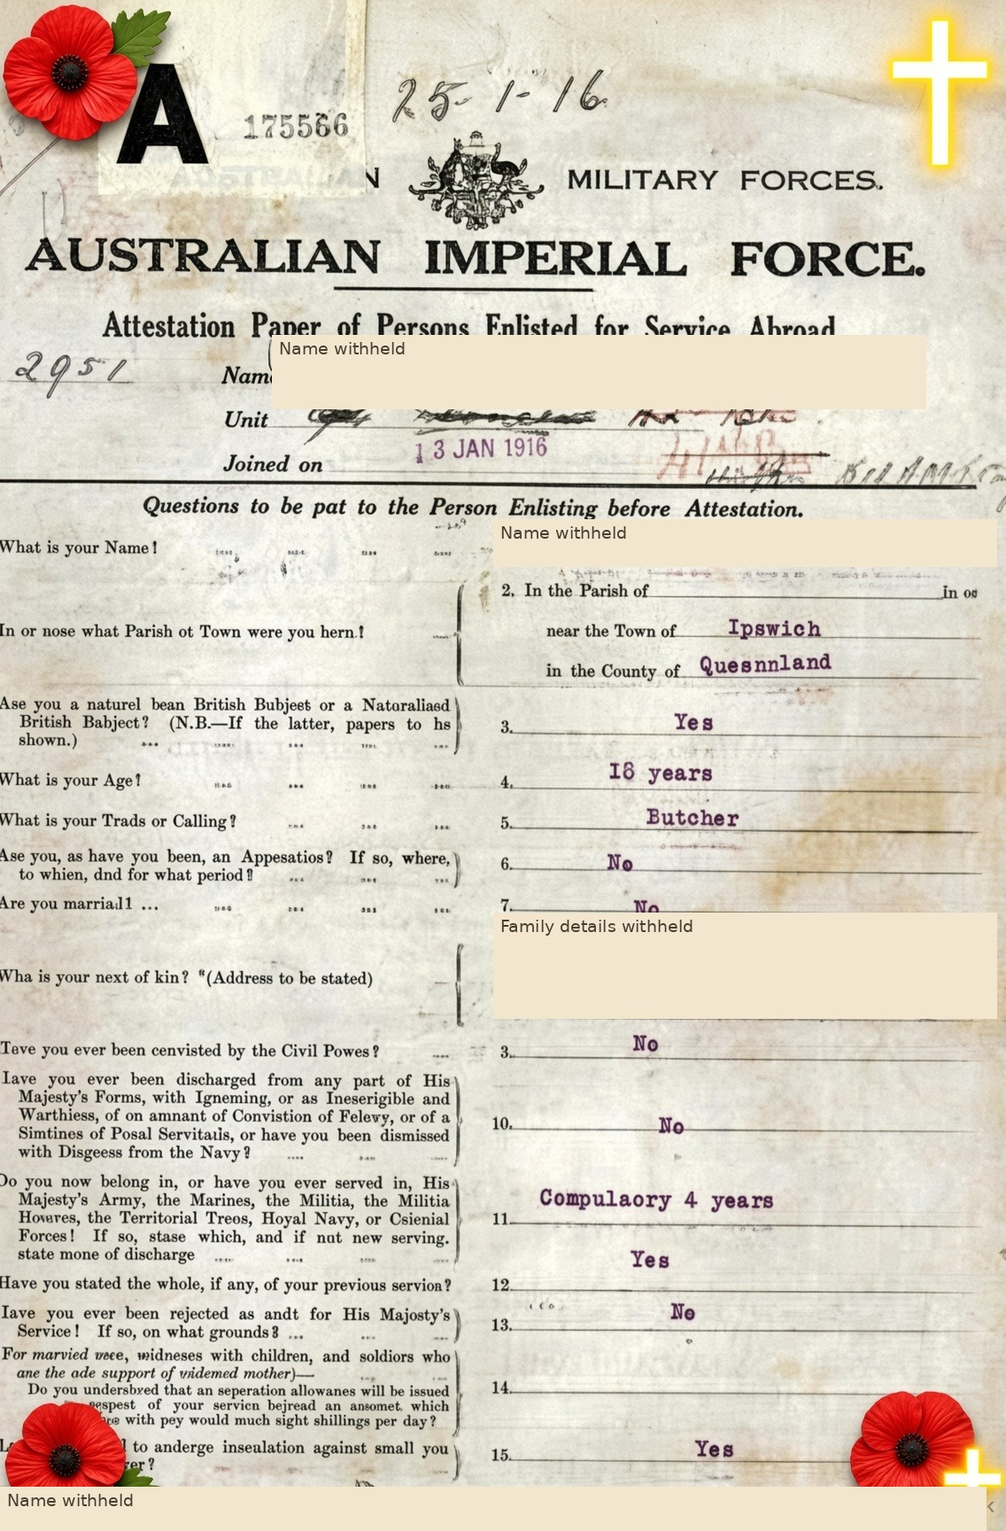
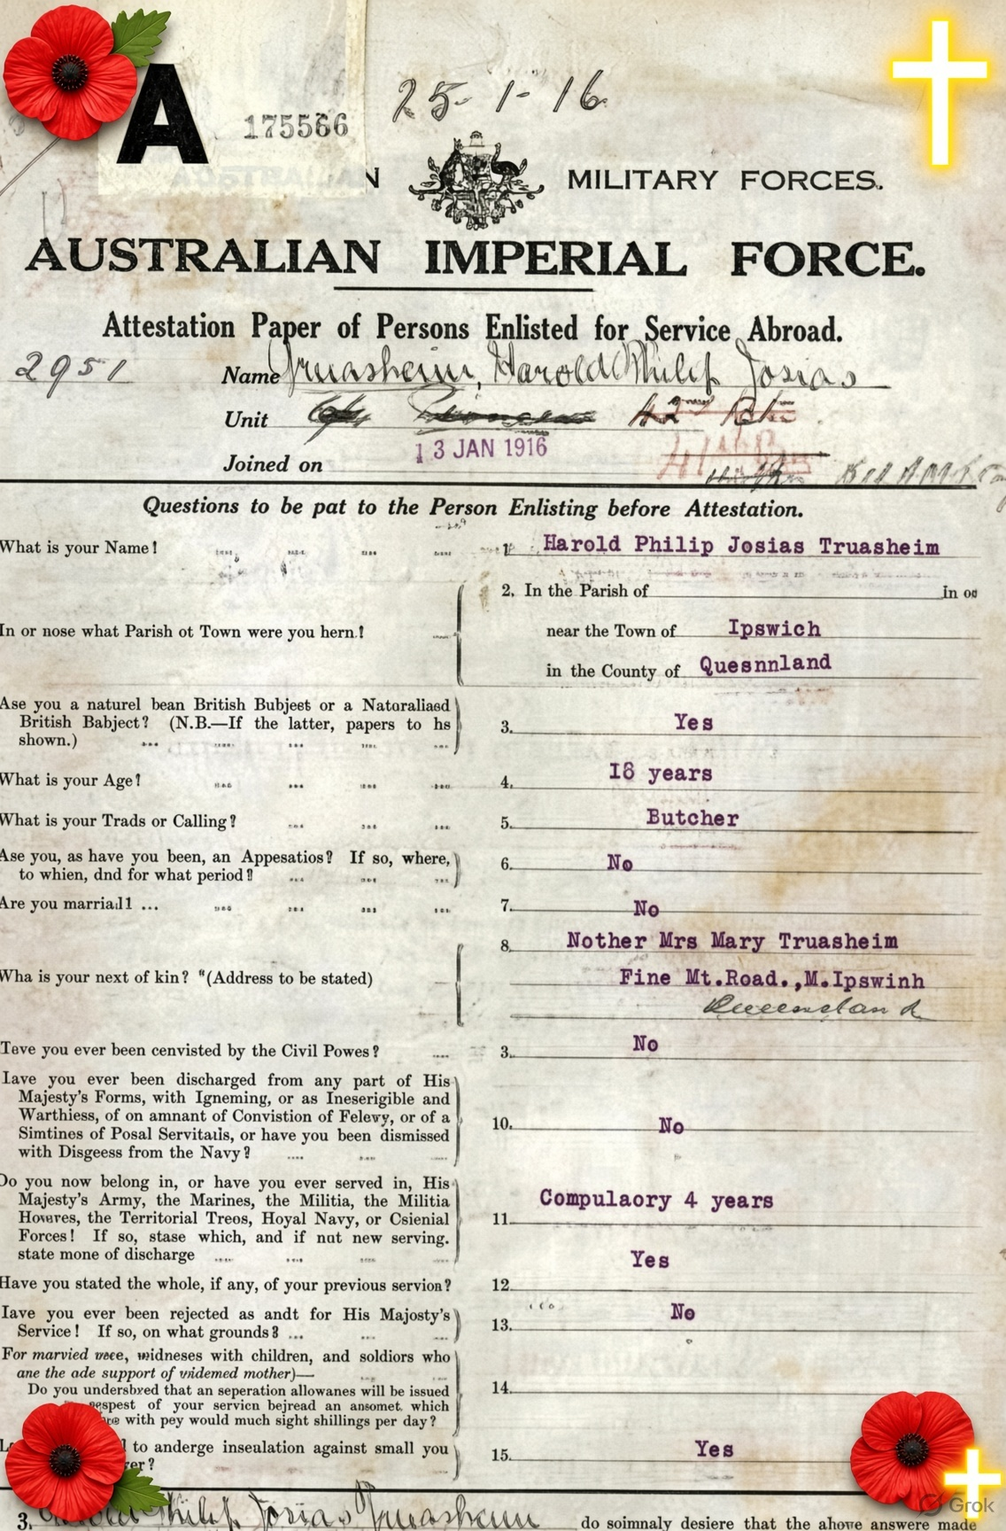
Restore record collages and replace Boonah illustration with historical photograph

diff --git a/index.html b/index.html
@@ -1,2 +1,3 @@
 <!DOCTYPE html>
-<html lang="en-AU"><head><meta charset="utf-8"/><meta content="width=device-width,initial-scale=1" name="viewport"/><meta content="Harold’s family story: a young bugler from Fernvale, a remembered sound, and why we remember on Remembrance Day." name="description"/><title>My Granddad was a Bugler — Harold’s Story</title><link href="assets/site.css?v=20261107-blog-2" rel="stylesheet"/></head><body><a class="skip" href="#story">Skip to Harold’s story</a><header class="wrap" id="home"><h1>My Granddad was a Bugler</h1><p class="subtitle">Harold’s story — a clear note and a family memory</p></header><main class="wrap"><article class="blog-article"><p class="article-intro">A bugle could call soldiers together. Years later, its clear note brought Harold’s grandchildren running in from the beach. This is his family’s story.</p><div class="opening"><figure class="portrait"><a aria-label="Open larger image: Illustrated cover with a bugle and red poppies." href="assets/images/story-01.jpg"><img alt="Illustrated cover with a bugle and red poppies." fetchpriority="high" height="1168" src="assets/images/story-01.jpg" width="784"/></a><figcaption>My Granddad was a Bugler. We remember the music.<span class="image-kind">Illustration</span></figcaption></figure></div><p class="gentle">Some parts mention loss, war and being wounded. You can read with an adult, <a href="#home-again">skip the trench details</a>, or go straight to <a href="#remember">why we remember</a>.</p><section aria-label="Harold’s story" id="story"><section class="story-part" id="part-1"><h2>The Boy from Fernvale</h2><p>Harold was just 18 in 1916 when he signed up for the war. He grew up in Fernvale, Queensland. By the time the war started, he already knew how to work hard.</p><p>Before the war, Harold worked as a butcher’s boy in Fernvale to help his family. His dad had died when Harold was only eight, and he was a big help for his Mum.</p><figure class="portrait"><a aria-label="Open larger image: Portrait-style picture of a young bugler holding his instrument." href="assets/images/story-02.jpg"><img alt="Portrait-style picture of a young bugler holding his instrument." height="1632" loading="lazy" src="assets/images/story-02.jpg" width="1216"/></a><figcaption>A young bugler with his instrument. Portrait-style illustration, not an authenticated photograph.<span class="image-kind">Illustration</span></figcaption></figure></section><section class="story-part" id="part-2"><h2>Working Hard</h2><p>He wrapped meat, swept the floor, and learned to use a knife carefully. By the time he was fourteen, he had left school and was already earning his living.</p><p>Harold walked into a recruiting office in Brisbane and signed up. He had only just turned 18, and he was shorter than many of the other men. The officers looked at him and weren’t sure he would be strong enough for the usual soldier jobs, but they took him anyway.</p><figure class="portrait"><a aria-label="Open larger image: Decorated enlistment-paper collage with personal names masked." href="assets/images/story-03.jpg"><img alt="Decorated enlistment-paper collage with personal names masked." height="1728" loading="lazy" src="assets/images/story-03.jpg" width="1136"/></a><figcaption>Enlistment-paper collage. Personal names and family details have been masked.<span class="image-kind">Record collage · not independently verified</span></figcaption></figure></section><section class="story-part" id="part-3"><h2>The Clear Note</h2><p>He sailed from Brisbane on the troopship HMAT Boonah. The men went first to Egypt, where the 4th Pioneer Battalion was being formed. They trained in the heat and dust.</p><p>The battalion needed someone to play the bugle. One day in camp an officer asked if anyone could play. Young Harold said he could. The officer handed him a bugle and told him to show what he could do.</p><p>Harold put it to his lips and blew one clear, steady note. Then he tried a few of the calls. The officer listened and nodded. Harold got the job. He became a bugler for the battalion.</p><figure class="landscape"><a aria-label="Open larger image: Illustration of soldiers gathered on the deck of a troopship." href="assets/images/story-04.jpg"><img alt="Illustration of soldiers gathered on the deck of a troopship." height="784" loading="lazy" src="assets/images/story-04.jpg" width="1168"/></a><figcaption>A troopship illustration alongside the account of HMAT Boonah.<span class="image-kind">Illustration</span></figcaption></figure></section><section class="story-part" id="part-4"><h2>In the Trenches</h2><p>Later the battalion went to France. In winter the trenches were deep with mud. Cold water filled the bottom and the men stood in it for hours. Sometimes snow fell and lay on the frozen mud. The wind was sharp and hands went numb.</p><p>When they were resting or in a quiet part of the trenches, Harold still sounded the bugle. He played for mealtimes, for the mail, and for the “all clear.” One clear note carried along the trench and told the men what to do next. They listened for it even when their feet were cold and the walls of the trench were high and wet around them. Harold was very brave.</p><figure class="landscape"><a aria-label="Open larger image: Collage of soldiers and a bugler among muddy trenches." href="assets/images/story-05.jpg"><img alt="Collage of soldiers and a bugler among muddy trenches." height="784" loading="lazy" src="assets/images/story-05.jpg" width="1168"/></a><figcaption>A bugler and life in the trenches.<span class="image-kind">Illustration</span></figcaption></figure><div class="gallery"><figure class="landscape"><a aria-label="Open larger image: Collage of a bugler, waterlogged trenches and soldiers at work." href="assets/images/story-06.jpg"><img alt="Collage of a bugler, waterlogged trenches and soldiers at work." height="784" loading="lazy" src="assets/images/story-06.jpg" width="1168"/></a><figcaption>Mud and water in the trenches.<span class="image-kind">Illustration</span></figcaption></figure><figure class="landscape"><a aria-label="Open larger image: Collage of a bugler playing beside a trench and soldiers resting." href="assets/images/story-07.jpg"><img alt="Collage of a bugler playing beside a trench and soldiers resting." height="784" loading="lazy" src="assets/images/story-07.jpg" width="1168"/></a><figcaption>The sound of a bugle, and quiet moments.<span class="image-kind">Illustration</span></figcaption></figure><figure class="landscape"><a aria-label="Open larger image: Collage showing trench walls, timber walkways and a bugler." href="assets/images/story-08.jpg"><img alt="Collage showing trench walls, timber walkways and a bugler." height="784" loading="lazy" src="assets/images/story-08.jpg" width="1168"/></a><figcaption>Timber walkways and trench walls.<span class="image-kind">Illustration</span></figcaption></figure></div></section><section class="story-part" id="home-again"><h2>Home Again</h2><p>Harold was wounded in France. He was sent home. He kept the bugle.</p><p>Years later, at his beach house in Beachmere, Harold would still take out the bugle. He blew one clear note from the balcony so the grandchildren would come running in from the beach.</p><figure class="portrait"><a aria-label="Open larger image: Decorated service-paper collage with the name masked." href="assets/images/story-09.jpg"><img alt="Decorated service-paper collage with the name masked." height="1664" loading="lazy" src="assets/images/story-09.jpg" width="1184"/></a><figcaption>Service-paper collage alongside the account of Harold returning home. The name has been masked.<span class="image-kind">Record collage · not independently verified</span></figcaption></figure></section><section class="story-part" id="part-6"><h2>We Remember</h2><p>Today, when someone hears a bugle on Anzac Day or Remembrance Day, someone in the family thinks of the boy from Fernvale.</p><figure class="landscape"><a aria-label="Open larger image: Illustration of a bugler playing beside an Anzac memorial and wreaths." href="assets/images/story-10.jpg"><img alt="Illustration of a bugler playing beside an Anzac memorial and wreaths." height="784" loading="lazy" src="assets/images/story-10.jpg" width="1168"/></a><figcaption>A bugler at a memorial. An illustration of remembrance, not a photograph of Harold.<span class="image-kind">Illustration</span></figcaption></figure></section></section><section class="remember" id="remember"><p class="eyebrow">11 November</p><h2>Why we remember</h2><p>Remembrance Day is a time to remember people who died or suffered in wars and armed conflicts. It is not a celebration of war.</p><p>At 11 am on 11 November 1918, an agreement called an <strong>armistice</strong> stopped fighting on the Western Front in Europe. This did not mean that every war everywhere had ended.</p><p>In Australia, people are encouraged to pause for one minute’s silence at 11 am on 11 November. We can remember those who served, think about families and civilians affected by war, and hope for peace.</p><p>Red poppies grew on damaged battlefields in northern France and Belgium. The red poppy became a symbol of remembrance.</p><p class="lest">Lest we forget.</p><p>You can sit quietly, draw, listen or talk with someone you trust. You do not need a family war story to take part.</p><p><strong>Does your family have a way of remembering someone who served?</strong> You can think about Harold’s story instead if you prefer not to share a personal memory.</p></section><section class="listen" id="listen"><p class="eyebrow">Listening is optional</p><h2>Listen to the bugle</h2><p>A bugler is someone who plays a bugle. The Last Post is a particular bugle call used at remembrance ceremonies.</p><div class="listen-links"><a class="button" href="https://www.awm.gov.au/anzacathome/remembering-hub/listen" rel="noopener noreferrer" target="_blank">Listen: the Last Post ↗</a><a href="https://www.awm.gov.au/commemoration/customs-and-ceremony/last-post" rel="noopener noreferrer" target="_blank">Read about the Last Post ↗</a><a href="https://www.awm.gov.au/collection/S00265" rel="noopener noreferrer" target="_blank">Bugle recordings: Last Post and Reveille ↗</a></div><p class="note">These links open Australian War Memorial pages in a new tab. Listen with an adult, starting at a low volume. Nothing plays automatically on this page. The recordings are not of Harold.</p></section><details class="sources"><summary>Story, illustrations and historical sources</summary><p>This family recollection has not been independently checked against service records. Some artwork is AI-generated; illustrations and edited record collages are not authenticated photographs or original military records. Personal names have been masked on the record collages.</p><p>Image creators and underlying rights have not been established; no public-domain status is claimed.</p><p>Historical context: <a href="https://www.awm.gov.au/commemoration/remembrance-day/traditions">Australian War Memorial: Origins of Remembrance Day</a>; <a href="https://www.awm.gov.au/commemoration/customs-and-ceremony/poppies">Flanders poppies</a>; <a href="https://www.awm.gov.au/commemoration/customs-and-ceremony/last-post">The Last Post</a>.</p></details></article></main><footer class="wrap"><p>Story © 2026</p><p><a href="#home">Back to the start ↑</a> · <a href="teacher/">Read-together notes</a> · <a href="worksheet.html">Draw and remember</a></p><p><a href="https://robmac10.github.io/history.html">Author’s History website ↗</a></p></footer></body></html>
+
+<html lang="en-AU"><head><meta charset="utf-8"/><meta content="width=device-width,initial-scale=1" name="viewport"/><meta content="Harold’s family story: a young bugler from Fernvale, a remembered sound, and why we remember on Remembrance Day." name="description"/><title>My Granddad was a Bugler — Harold’s Story</title><link href="assets/site.css?v=20261107-blog-2" rel="stylesheet"/></head><body><a class="skip" href="#story">Skip to Harold’s story</a><header class="wrap" id="home"><h1>My Granddad was a Bugler</h1><p class="subtitle">Harold’s story — a clear note and a family memory</p></header><main class="wrap"><article class="blog-article"><p class="article-intro">A bugle could call soldiers together. Years later, its clear note brought Harold’s grandchildren running in from the beach. This is his family’s story.</p><div class="opening"><figure class="portrait"><a aria-label="Open larger image: Illustrated cover with a bugle and red poppies." href="assets/images/story-01.jpg"><img alt="Illustrated cover with a bugle and red poppies." fetchpriority="high" height="1168" src="assets/images/story-01.jpg" width="784"/></a></figure></div><p class="gentle">Some parts mention loss, war and being wounded. You can read with an adult, <a href="#home-again">skip the trench details</a>, or go straight to <a href="#remember">why we remember</a>.</p><section aria-label="Harold’s story" id="story"><section class="story-part" id="part-1"><h2>The Boy from Fernvale</h2><p>Harold was just 18 in 1916 when he signed up for the war. He grew up in Fernvale, Queensland. By the time the war started, he already knew how to work hard.</p><p>Before the war, Harold worked as a butcher’s boy in Fernvale to help his family. His dad had died when Harold was only eight, and he was a big help for his Mum.</p><figure class="portrait"><a aria-label="Open larger image: Portrait-style picture of a young bugler holding his instrument." href="assets/images/story-02.jpg"><img alt="Portrait-style picture of a young bugler holding his instrument." height="1632" loading="lazy" src="assets/images/story-02.jpg" width="1216"/></a></figure></section><section class="story-part" id="part-2"><h2>Working Hard</h2><p>He wrapped meat, swept the floor, and learned to use a knife carefully. By the time he was fourteen, he had left school and was already earning his living.</p><p>Harold walked into a recruiting office in Brisbane and signed up. He had only just turned 18, and he was shorter than many of the other men. The officers looked at him and weren’t sure he would be strong enough for the usual soldier jobs, but they took him anyway.</p><figure class="portrait"><a aria-label="Open larger image: Enlistment-paper collage." href="assets/images/story-03.jpg"><img alt="Enlistment-paper collage." height="1728" loading="lazy" src="assets/images/story-03.jpg" width="1136"/></a><figcaption>Ancestry records (family attribution; edited collage).</figcaption></figure></section><section class="story-part" id="part-3"><h2>The Clear Note</h2><p>He sailed from Brisbane on the troopship HMAT Boonah. The men went first to Egypt, where the 4th Pioneer Battalion was being formed. They trained in the heat and dust.</p><p>The battalion needed someone to play the bugle. One day in camp an officer asked if anyone could play. Young Harold said he could. The officer handed him a bugle and told him to show what he could do.</p><p>Harold put it to his lips and blew one clear, steady note. Then he tried a few of the calls. The officer listened and nodded. Harold got the job. He became a bugler for the battalion.</p><figure class="landscape"><a aria-label="Open larger image: HMAT Boonah photograph." href="assets/images/story-04.jpg"><img alt="Historical photograph of the Australian troopship HMAT Boonah, about 1920." height="512" loading="lazy" src="assets/images/story-04.jpg" width="636"/></a></figure></section><section class="story-part" id="part-4"><h2>In the Trenches</h2><p>Later the battalion went to France. In winter the trenches were deep with mud. Cold water filled the bottom and the men stood in it for hours. Sometimes snow fell and lay on the frozen mud. The wind was sharp and hands went numb.</p><p>When they were resting or in a quiet part of the trenches, Harold still sounded the bugle. He played for mealtimes, for the mail, and for the “all clear.” One clear note carried along the trench and told the men what to do next. They listened for it even when their feet were cold and the walls of the trench were high and wet around them. Harold was very brave.</p><figure class="landscape"><a aria-label="Open larger image: Collage of soldiers and a bugler among muddy trenches." href="assets/images/story-05.jpg"><img alt="Collage of soldiers and a bugler among muddy trenches." height="784" loading="lazy" src="assets/images/story-05.jpg" width="1168"/></a></figure><div class="gallery"><figure class="landscape"><a aria-label="Open larger image: Collage of a bugler, waterlogged trenches and soldiers at work." href="assets/images/story-06.jpg"><img alt="Collage of a bugler, waterlogged trenches and soldiers at work." height="784" loading="lazy" src="assets/images/story-06.jpg" width="1168"/></a></figure><figure class="landscape"><a aria-label="Open larger image: Collage of a bugler playing beside a trench and soldiers resting." href="assets/images/story-07.jpg"><img alt="Collage of a bugler playing beside a trench and soldiers resting." height="784" loading="lazy" src="assets/images/story-07.jpg" width="1168"/></a></figure><figure class="landscape"><a aria-label="Open larger image: Collage showing trench walls, timber walkways and a bugler." href="assets/images/story-08.jpg"><img alt="Collage showing trench walls, timber walkways and a bugler." height="784" loading="lazy" src="assets/images/story-08.jpg" width="1168"/></a></figure></div></section><section class="story-part" id="home-again"><h2>Home Again</h2><p>Harold was wounded in France. He was sent home. He kept the bugle.</p><p>Years later, at his beach house in Beachmere, Harold would still take out the bugle. He blew one clear note from the balcony so the grandchildren would come running in from the beach.</p><figure class="portrait"><a aria-label="Open larger image: Service-paper collage." href="assets/images/story-09.jpg"><img alt="Service-paper collage." height="1664" loading="lazy" src="assets/images/story-09.jpg" width="1184"/></a><figcaption>Ancestry records (family attribution; edited collage).</figcaption></figure></section><section class="story-part" id="part-6"><h2>We Remember</h2><p>Today, when someone hears a bugle on Anzac Day or Remembrance Day, someone in the family thinks of the boy from Fernvale.</p><figure class="landscape"><a aria-label="Open larger image: Illustration of a bugler playing beside an Anzac memorial and wreaths." href="assets/images/story-10.jpg"><img alt="Illustration of a bugler playing beside an Anzac memorial and wreaths." height="784" loading="lazy" src="assets/images/story-10.jpg" width="1168"/></a></figure></section></section><section class="remember" id="remember"><p class="eyebrow">11 November</p><h2>Why we remember</h2><p>Remembrance Day is a time to remember people who died or suffered in wars and armed conflicts. It is not a celebration of war.</p><p>At 11 am on 11 November 1918, an agreement called an <strong>armistice</strong> stopped fighting on the Western Front in Europe. This did not mean that every war everywhere had ended.</p><p>In Australia, people are encouraged to pause for one minute’s silence at 11 am on 11 November. We can remember those who served, think about families and civilians affected by war, and hope for peace.</p><p>Red poppies grew on damaged battlefields in northern France and Belgium. The red poppy became a symbol of remembrance.</p><p class="lest">Lest we forget.</p><p>You can sit quietly, draw, listen or talk with someone you trust. You do not need a family war story to take part.</p><p><strong>Does your family have a way of remembering someone who served?</strong> You can think about Harold’s story instead if you prefer not to share a personal memory.</p></section><section class="listen" id="listen"><p class="eyebrow">Listening is optional</p><h2>Listen to the bugle</h2><p>A bugler is someone who plays a bugle. The Last Post is a particular bugle call used at remembrance ceremonies.</p><div class="listen-links"><a class="button" href="https://www.awm.gov.au/anzacathome/remembering-hub/listen" rel="noopener noreferrer" target="_blank">Listen: the Last Post ↗</a><a href="https://www.awm.gov.au/commemoration/customs-and-ceremony/last-post" rel="noopener noreferrer" target="_blank">Read about the Last Post ↗</a><a href="https://www.awm.gov.au/collection/S00265" rel="noopener noreferrer" target="_blank">Bugle recordings: Last Post and Reveille ↗</a></div><p class="note">These links open Australian War Memorial pages in a new tab. Listen with an adult, starting at a low volume. Nothing plays automatically on this page. The recordings are not of Harold.</p></section><details class="sources"><summary>Image credits and historical sources</summary><p>This family recollection has not been independently checked against service records. Some artwork is AI-generated. Illustrations and edited record collages are not presented as independently authenticated photographs or original military records.</p><p>The family identifies the two record collages as Ancestry records. They include decorative additions and a Grok watermark; the underlying records have not been independently verified here.</p><p>Ship photograph: <a href="https://commons.wikimedia.org/wiki/File:HMAT_Boonah.jpg">HMAT Boonah, about 1920 — Wikimedia Commons</a>. Photographer not identified on the file page. The file is marked public domain under PD-Australia and PD-1996. This photograph shows the vessel, not a verified image of Harold’s voyage.</p><p>Creators and underlying rights for the other images have not been established; no public-domain status is claimed for them.</p><p>Historical context: <a href="https://www.awm.gov.au/commemoration/remembrance-day/traditions">Australian War Memorial: Origins of Remembrance Day</a>; <a href="https://www.awm.gov.au/commemoration/customs-and-ceremony/poppies">Flanders poppies</a>; <a href="https://www.awm.gov.au/commemoration/customs-and-ceremony/last-post">The Last Post</a>.</p></details></article></main><footer class="wrap"><p>Story © 2026</p><p><a href="#home">Back to the start ↑</a> · <a href="teacher/">Read-together notes</a> · <a href="worksheet.html">Draw and remember</a></p><p><a href="https://robmac10.github.io/history.html">Author’s History website ↗</a></p></footer></body></html>

diff --git a/README.md b/README.md
@@ -1,9 +1,11 @@
 # My Granddad was a Bugler — Harold’s Story
 
-An illustrated, blog-style family story, followed by Why we remember and optional Australian War Memorial listening links. Large comfortable type, warm colours, ten images interleaved with the narrative. Story © 2026.
+Large-text illustrated family story with Why we remember and Australian War Memorial listening links. Story © 2026.
 
-The family recollection has not been independently verified against service records. Some artwork is AI-generated. Illustrations and edited record collages are not authenticated photographs or original military records. Personal names and family details are masked on the record collages. Image creators and underlying rights have not been established; no public-domain status is claimed.
+Six narrative sections and ten images. Only the two record collages have visible captions. The family identifies those images as Ancestry records; these are edited collages with decorative additions and Grok watermarks, not independently authenticated records. The original unmasked embedded image bytes are displayed at the author's explicit request. Public narrative uses Harold's given name. Some other artwork is AI-generated.
 
-Historical context: Australian War Memorial Origins of Remembrance Day, Flanders poppies and The Last Post. External listening links include Last Post and Reveille; recordings are not of Harold.
+Ship photograph: HMAT Boonah, about 1920. Wikimedia Commons https://commons.wikimedia.org/wiki/File:HMAT_Boonah.jpg . Photographer not identified. Commons marks the file public domain under PD-Australia and PD-1996. Downloaded from https://upload.wikimedia.org/wikipedia/commons/c/c6/HMAT_Boonah.jpg . It depicts the vessel, not a verified image of Harold's voyage. Other image creators and underlying rights have not been established; no public-domain status is claimed for them.
 
-Static HTML/CSS. No accounts, tracking, autoplay, synthesis, games or timers. The teacher URL contains short read-together notes; worksheet.html is a simple drawing page. Current public text uses only Harold's given name. Existing Git history is not rewritten.
+Historical context: AWM Origins of Remembrance Day, Flanders poppies and The Last Post. The family recollection has not been independently checked against service records.
+
+Static HTML/CSS; no autoplay, tracking, synthesis, games or timers. Short read-together notes and a drawing page remain available. Prior versions remain privately archived; Git history is not rewritten.
